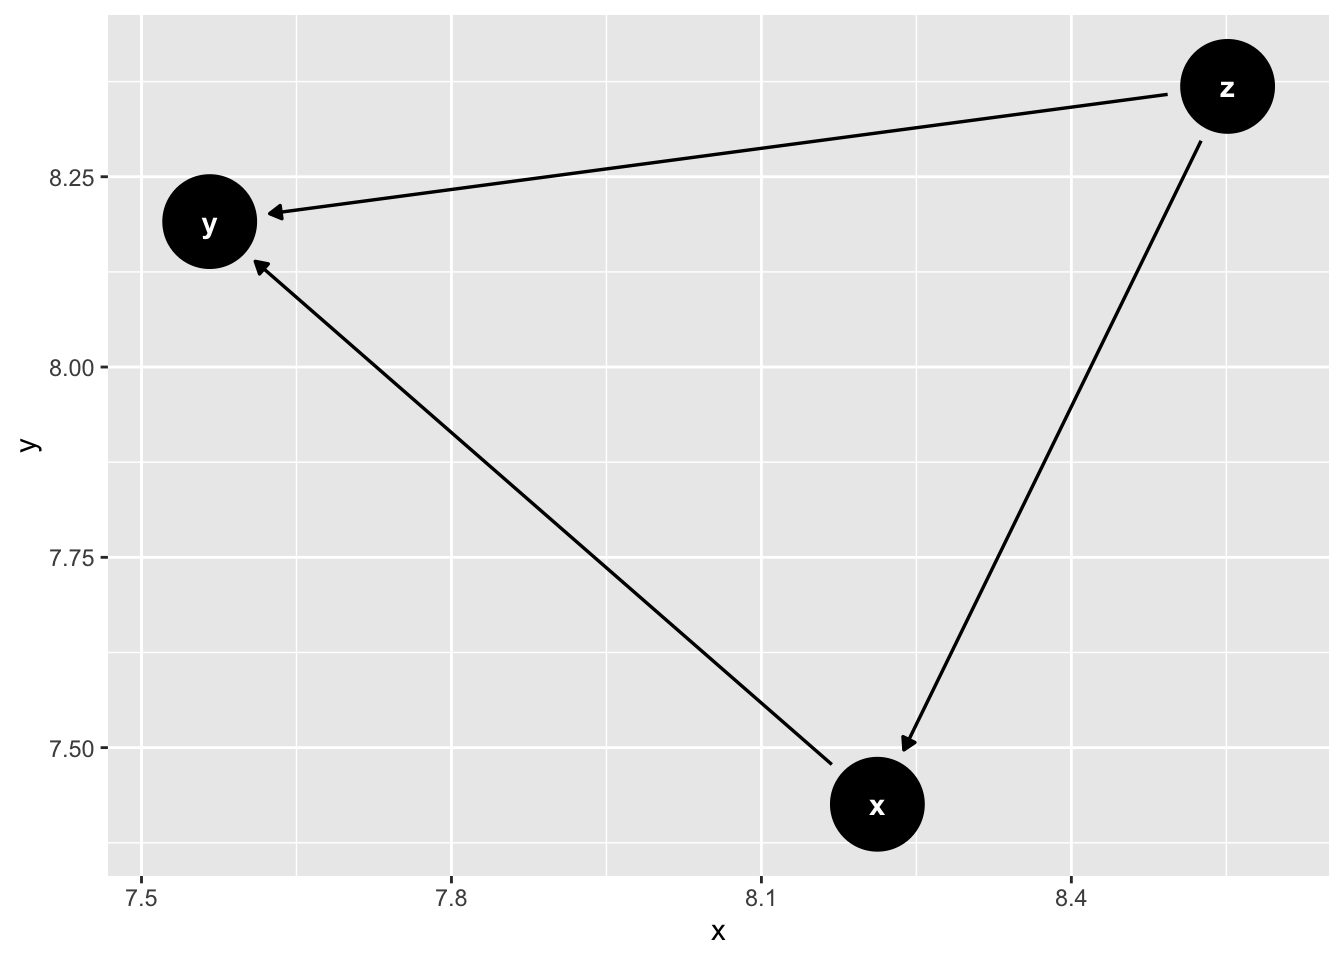
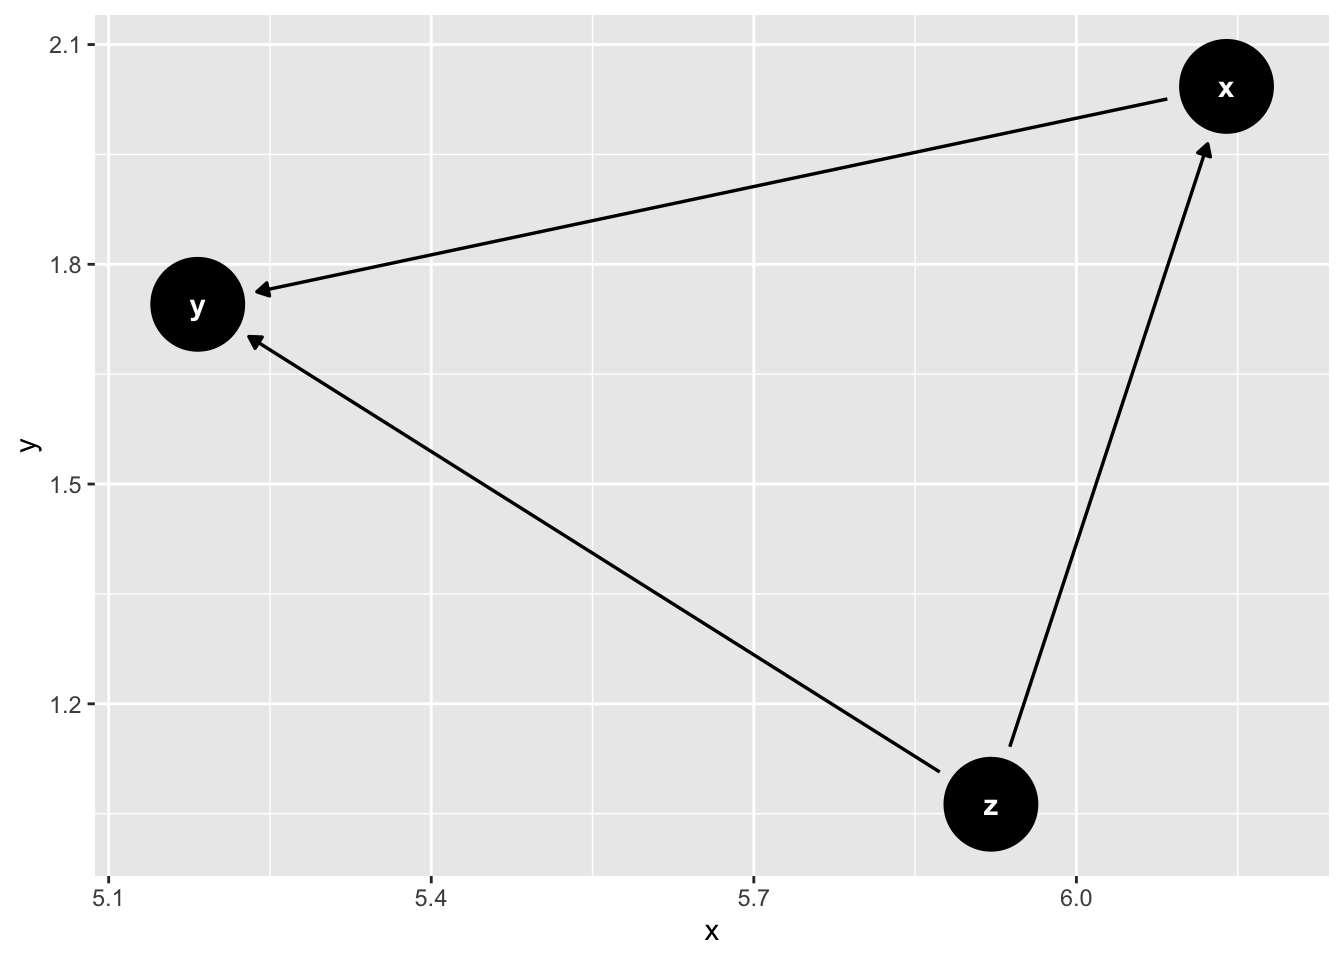
clean up blog list page

diff --git a/content/post/2018-01-26-stochastic-shakespeare-sonnets-produced-by-markov-chains-in-r/index.html b/content/post/2018-01-26-stochastic-shakespeare-sonnets-produced-by-markov-chains-in-r/index.html
@@ -13,9 +13,9 @@ authors: []
 lastmod: '2018-01-26'
 featured: no
 image:
-  caption: ''
+  caption: 'Photo by [Patrick Tomasso](https://unsplash.com/photos/Oaqk7qqNh_c)'
   focal_point: ''
-  preview_only: no
+  preview_only: yes
 projects: [] 
 ---
 
@@ -90,7 +90,7 @@ punctuation_probs &lt;- punctuation[punctuation %not_in% c(&quot;-&quot;, &quot;
 <pre class="r"><code>#  fit a Markov Chain
 sonnet_chain &lt;- markovchainFit(bills_words)
 cat(markovchainSequence(n = 10, markovchain = sonnet_chain$estimate), collapse =  &quot; &quot;)</code></pre>
-<p>i can afford no longer nurseth the joy my poverty</p>
+<p>with her audit by time whose shadow since i cannot</p>
 <p><img src="https://media.giphy.com/media/bXKWWJXUJkBsQ/giphy.gif" /></p>
 <p>And finally, here are a few functions to piece together lines to make them look like a sonnet using the <code>walk()</code> function from <code>purrr</code> to print out the lines (since it’s a side effect). No, they’re not actually iambic pentameter :(</p>
 <pre class="r"><code>write_a_line &lt;- function(n_lines = 1) {
@@ -270,92 +270,92 @@ markovify_sonnet &lt;- function() {
 <div id="markovify-sonnet-1" class="section level2">
 <h2>Markovify Sonnet 1:</h2>
 <pre class="r"><code>markovify_sonnet()</code></pre>
-<p>now counting best to be invited<br />
-then, in the breath of words respect,<br />
-are windows to my dear time’s waste:<br />
-speak of that which thou departest;</p>
-<p>speak of my faults thy sweet graces graced be;<br />
-reserve them for my sin you did impute,<br />
-then, beauteous niggard, why dost thou to mine eyes,<br />
-die to themselves. sweet roses do not kill</p>
-<p>this silence for my love, yea take them all;<br />
-are windows to my thoughts as food to life,<br />
-beauty’s effect with beauty of thy days.<br />
-there is but as the rich, whose blessed key,</p>
-<p>this were to be cross’d:<br />
-not from the book of honour razed quite.</p>
+<p>borne on the ashes of his spring;<br />
+then, beauteous niggard, why dost thou use<br />
+stealing away the treasure of his great verse,<br />
+for through the painter and hath stell’d,</p>
+<p>in thy glass and she with me,<br />
+who, in despite of space i would be forgot,<br />
+accuse me thus: that i in your decay<br />
+of him, i’ll live in doubt,</p>
+<p>mad in pursuit and in my heart.<br />
+grant, if thou survive my well-contented day,<br />
+stealing away the treasure of his living hue?<br />
+feeding on that which he toil’d:</p>
+<p>there lives more life in one of thine,<br />
+spending again what is most evident.</p>
 </div>
 <div id="markovify-sonnet-2" class="section level2">
 <h2>Markovify Sonnet 2:</h2>
 <pre class="r"><code>markovify_sonnet()</code></pre>
-<p>thine eyes i love, and look strange;<br />
-haply i think my love alone.<br />
-which should transport me farthest from your tongue;<br />
-entitled in thy power to lend base subjects light?</p>
-<p>wishing me like to the very same;<br />
-not that the world’s fresh ornament,<br />
-looking with pretty ruth upon my brow;<br />
-of faults conceal’d, wherein i am forsworn,</p>
-<p>too base of thee this i do change:<br />
-now all is done, save what is told.<br />
-to this composed wonder of your fame!<br />
-disdains the tillage of thy days.</p>
-<p>till i return, of posting is no remedy,<br />
-not wondering at the present nor the prophetic soul</p>
+<p>nor taste, nor smell, desire to be won,<br />
+unlearned in the least of them my life decay;<br />
+although thou steal thy sweet self too cruel:<br />
+say that thou none lov’st is most dear,</p>
+<p>too base of thee hast left behind,<br />
+will be true despite thy scythe and crooked knife.<br />
+these offices, so oft as mine,<br />
+may still seem love to thee,</p>
+<p>deserves the travail of a conquer’d woe;<br />
+although thou steal thy sweet self grow’st.<br />
+come in the distraction of this excess,<br />
+drawn after you, you pattern of all his growth</p>
+<p>be, as thy sweet will making addition thus.<br />
+is more than i have scanted all.</p>
 </div>
 <div id="markovify-sonnet-3" class="section level2">
 <h2>Markovify Sonnet 3:</h2>
 <pre class="r"><code>markovify_sonnet()</code></pre>
-<p>want nothing that the world an end,<br />
-kill me with that which it doth catch;<br />
-within the knowledge of mine own love’s might.<br />
-o! change thy thought, that i prove,</p>
-<p>within the level of your love.<br />
-presume not on thy humour doth depend:<br />
-ere you were once unkind befriends me now,<br />
-when sometime lofty towers i see thee,</p>
-<p>wishing me like to the world enjoys it;<br />
-who taught thee how thy precious minutes waste;<br />
-mad in pursuit of the time,<br />
-have added feathers to the time,</p>
-<p>the summer’s flower is to render thee.<br />
-what merit do i not to be invited</p>
+<p>poor soul, the centre of my lovers gone,<br />
+what hast thou this becoming of their faces,<br />
+who lead thee in their body’s force,<br />
+want nothing that the thought of hearts shouldst owe.</p>
+<p>eat up thy charge? is this thy golden time.<br />
+stealing away the treasure of thy lusty days;<br />
+unlearned in the praise thereof spends all his might,<br />
+poor soul, the centre of my heart;</p>
+<p>for you in me thou lov’st those<br />
+deserves the travail of a former child!<br />
+when as thy sweet self resemble,<br />
+the prey of worms, my body that he may</p>
+<p>hate of my lameness, and i are one;<br />
+mad in pursuit and in my verse</p>
 </div>
 <div id="markovify-sonnet-4" class="section level2">
 <h2>Markovify Sonnet 4:</h2>
 <pre class="r"><code>markovify_sonnet()</code></pre>
-<p>o, no! it is a man right fair,<br />
-by seeing farther than my barren rhyme?<br />
-even that your love taught it this alchemy,<br />
-theirs for their habitation chose out thee,</p>
-<p>just to the edge of doom.<br />
-full many a holy and obsequious tear<br />
-two loves i have frequent been with unknown minds,<br />
-how have mine eyes be blessed made</p>
-<p>speak of that which still doth grow?<br />
-kind is my love’s breath? the purple pride<br />
-him in thy steel bosom’s ward,<br />
-even so, being full of blame,</p>
-<p>speak of the dead, which now appear<br />
-will be true despite thy scythe and crooked knife.</p>
+<p>speak of the thing she would have stay;<br />
+within the level of your love.<br />
+oaths of thy love, though much, is not so?<br />
+nay, if thou thy sins are;</p>
+<p>looking on thee in such sort,<br />
+still losing when i took my way,<br />
+kind is my love, you know,<br />
+beshrew that heart that makes my heart to sway?</p>
+<p>thus have i slept in your decay<br />
+hers by thy picture in my purpose bred,<br />
+both find each other, and i desperate now approve<br />
+love’s eye is my invention spent,</p>
+<p>some fresher stamp of the dead, which now appear<br />
+who all their praises are but prophecies</p>
 </div>
 <div id="markovify-sonnet-5" class="section level2">
 <h2>Markovify Sonnet 5:</h2>
 <pre class="r"><code>markovify_sonnet()</code></pre>
-<p>never believe though in thy creation did decree<br />
-make but my five senses can<br />
-but all alone beweep my outcast state,<br />
-alack! what poverty my muse want subject to invent,</p>
-<p>but wherefore do not do the thing they see;<br />
-lo! in the number let me be borne alone.<br />
-steal from his low tract, and look strange;<br />
-so, either by thy beauty being mute,</p>
-<p>betwixt mine eye loves it and doth first begin.<br />
-whence hast thou this becoming of their excellence.<br />
-dost thou to mine own worth do define,<br />
-wretched in this line some interest,</p>
-<p>yet, do thy worst to steal thyself away,<br />
-although thou steal thy sweet self prove.</p>
+<p>but that which governs me to thee resort.<br />
+or whether shall i live, supposing thou art old,<br />
+advantage on the rarities of nature’s truth,<br />
+hast thou, the master mistress of my harmful deeds,</p>
+<p>thou best of dearest, and mine eye awake:<br />
+although thou steal thee all thy glory live.<br />
+ah! yet doth beauty like a makeless wife;<br />
+nay, if you were once unkind befriends me now,</p>
+<p>whereto all bonds do tie me day by day,<br />
+are vanishing, or vanished out of their faces,<br />
+presume not on thy soft cheek for complexion dwells<br />
+if thou dost seek to have years told:</p>
+<p>although i swear it to myself i do,<br />
+lo! in the world’s fresh ornament.</p>
 <p><img src="https://media.giphy.com/media/JPW7lVDXKJgXu/giphy.gif" width="75%" /></p>
 <p>Well, call me Shockedspeare.</p>
 <p><em>Exit, pursued by a bear</em></p>

diff --git a/content/post/2019-09-17-tidy-causal-dags-with-ggdag-0-2-0/index.html b/content/post/2019-09-17-tidy-causal-dags-with-ggdag-0-2-0/index.html
@@ -18,7 +18,7 @@ featured: no
 image:
   caption: ''
   focal_point: ''
-  preview_only: no
+  preview_only: yes
 projects: 
   - ggdag
   - methods
@@ -52,12 +52,12 @@ smoking_ca_dag</code></pre>
 ## # A tibble: 6 x 9
 ##   name          x     y direction to        xend  yend circular label      
 ##   &lt;chr&gt;     &lt;dbl&gt; &lt;dbl&gt; &lt;fct&gt;     &lt;chr&gt;    &lt;dbl&gt; &lt;dbl&gt; &lt;lgl&gt;    &lt;chr&gt;      
-## 1 choleste…  13.2  11.8 -&gt;        cardiac…  12.0  11.2 FALSE    Cholesterol
-## 2 smoking    14.5  11.7 -&gt;        cholest…  13.2  11.8 FALSE    Smoking    
-## 3 unhealthy  15.0  12.8 -&gt;        smoking   14.5  11.7 FALSE    &quot;Unhealthy…
-## 4 unhealthy  15.0  12.8 -&gt;        weight    13.8  13.0 FALSE    &quot;Unhealthy…
-## 5 weight     13.8  13.0 -&gt;        cholest…  13.2  11.8 FALSE    Weight     
-## 6 cardiaca…  12.0  11.2 &lt;NA&gt;      &lt;NA&gt;      NA    NA   FALSE    &quot;Cardiac\n…</code></pre>
+## 1 choleste…  26.0  18.3 -&gt;        cardiac…  27.2  17.8 FALSE    Cholesterol
+## 2 smoking    24.7  18.1 -&gt;        cholest…  26.0  18.3 FALSE    Smoking    
+## 3 unhealthy  24.2  19.1 -&gt;        smoking   24.7  18.1 FALSE    &quot;Unhealthy…
+## 4 unhealthy  24.2  19.1 -&gt;        weight    25.3  19.4 FALSE    &quot;Unhealthy…
+## 5 weight     25.3  19.4 -&gt;        cholest…  26.0  18.3 FALSE    Weight     
+## 6 cardiaca…  27.2  17.8 &lt;NA&gt;      &lt;NA&gt;      NA    NA   FALSE    &quot;Cardiac\n…</code></pre>
 <p>The tidy DAG structure looks like a <code>tibble</code>. ggdag 0.2.0 also prints some information about the DAG at the top.</p>
 <pre class="r"><code>ggdag(smoking_ca_dag, text = FALSE, use_labels = &quot;label&quot;)</code></pre>
 <p><img src="/post/2019-09-17-tidy-causal-dags-with-ggdag-0-2-0/index_files/figure-html/unnamed-chunk-4-1.png" width="672" /></p>
@@ -100,9 +100,9 @@ tblgraph_dag</code></pre>
 ## # Edge Data: 5 x 9
 ##    from    to     x     y direction  xend  yend circular label             
 ##   &lt;int&gt; &lt;int&gt; &lt;dbl&gt; &lt;dbl&gt; &lt;chr&gt;     &lt;dbl&gt; &lt;dbl&gt; &lt;lgl&gt;    &lt;chr&gt;             
-## 1     1     5  13.2  11.8 -&gt;         12.0  11.2 FALSE    Cholesterol       
-## 2     2     1  14.5  11.7 -&gt;         13.2  11.8 FALSE    Smoking           
-## 3     3     2  15.0  12.8 -&gt;         14.5  11.7 FALSE    &quot;Unhealthy\n Life…
+## 1     1     5  26.0  18.3 -&gt;         27.2  17.8 FALSE    Cholesterol       
+## 2     2     1  24.7  18.1 -&gt;         26.0  18.3 FALSE    Smoking           
+## 3     3     2  24.2  19.1 -&gt;         24.7  18.1 FALSE    &quot;Unhealthy\n Life…
 ## # … with 2 more rows</code></pre>
 <pre class="r"><code>tblgraph_dag %&gt;% 
   ggraph() +

diff --git a/content/post/2018-03-28-ggdag-0-1-0/index.html b/content/post/2018-03-28-ggdag-0-1-0/index.html
@@ -15,9 +15,9 @@ authors: []
 lastmod: '2018-03-28'
 featured: no
 image:
-  caption: ''
+  caption: 'Photo by [Sam Carter](https://unsplash.com/photos/GHOiyov2TSQ)'
   focal_point: ''
-  preview_only: no
+  preview_only: yes
 projects: 
   - ggdag
 ---
@@ -38,10 +38,10 @@ dag</code></pre>
 ## # A tibble: 4 x 8
 ##   name      x     y direction to     xend  yend circular
 ##   &lt;chr&gt; &lt;dbl&gt; &lt;dbl&gt; &lt;fct&gt;     &lt;chr&gt; &lt;dbl&gt; &lt;dbl&gt; &lt;lgl&gt;   
-## 1 x      8.21  7.43 -&gt;        y      7.57  8.19 FALSE   
-## 2 z      8.55  8.37 -&gt;        x      8.21  7.43 FALSE   
-## 3 z      8.55  8.37 -&gt;        y      7.57  8.19 FALSE   
-## 4 y      7.57  8.19 &lt;NA&gt;      &lt;NA&gt;  NA    NA    FALSE</code></pre>
+## 1 x      6.14  2.04 -&gt;        y      5.18  1.75 FALSE   
+## 2 z      5.92  1.06 -&gt;        x      6.14  2.04 FALSE   
+## 3 z      5.92  1.06 -&gt;        y      5.18  1.75 FALSE   
+## 4 y      5.18  1.75 &lt;NA&gt;      &lt;NA&gt;  NA    NA    FALSE</code></pre>
 <pre class="r"><code>ggdag(dag)</code></pre>
 <p><img src="/post/2018-03-28-ggdag-0-1-0/index_files/figure-html/unnamed-chunk-1-1.png" width="672" /></p>
 <p>You can learn more about it on the <a href="https://ggdag.netlify.com/">ggdag website</a>, a <code>pkgdown</code> site that includes rendered documentation and the following vignettes:</p>

diff --git a/content/post/2019-10-06-introducing-ymlthis/index.html b/content/post/2019-10-06-introducing-ymlthis/index.html
@@ -12,9 +12,9 @@ slug: introducing-ymlthis
 lastmod: '2019-10-06'
 featured: no
 image:
-  caption: ''
+  caption: 'Image by [Desirée De Leon](https://desiree.rbind.io)'
   focal_point: ''
-  preview_only: no
+  preview_only: yes
 draft: true
 projects: ['ymlthis']
 ---
@@ -61,7 +61,7 @@ csl: aje.csl
 <h1>Write R Markdown and YAML files</h1>
 <p>ymlthis prints cleanly to the console, so you can easily copy and paste it into your R Markdown document (or use <code>use_yml()</code> to programatically place it on your clipboard). However, this might not fit the needs of your workflow. <code>use_rmarkdown()</code> and friends take <code>yml</code> objects and write them to R Markdown files.</p>
 <pre class="r"><code>use_rmarkdown(path = &quot;myreport.Rmd&quot;)</code></pre>
-<pre><code>## ✔ Writing &#39;/var/folders/03/9x7925g54mncswxx06wpkxl00000gn/T/RtmpxcnG79/file14d81679af35/myreport.Rmd&#39;</code></pre>
+<pre><code>## ✔ Writing &#39;/var/folders/03/9x7925g54mncswxx06wpkxl00000gn/T/Rtmpcs1Ykd/file143cd244afbec/myreport.Rmd&#39;</code></pre>
 <p>Read the <a href="http://ymlthis.r-lib.org/articles/introduction-to-ymlthis.html">vignette introducing ymlthis</a> for more on working with R Markdown and YAML files, as well as for using ymlthis to create R Markdown templates.</p>
 </div>
 <div id="learn-more-about-yaml-and-yaml-options" class="section level1">

diff --git a/content/post/2019-05-20-introducing-the-partition-package/index.html b/content/post/2019-05-20-introducing-the-partition-package/index.html
@@ -13,9 +13,9 @@ authors: []
 lastmod: '2019-05-20'
 featured: no
 image:
-  caption: ''
+  caption: 'Photo by [Braden Collum](https://unsplash.com/photos/LDh4LAV2Duc)'
   focal_point: ''
-  preview_only: no
+  preview_only: yes
 projects: [partition]
 ---
 

diff --git a/content/post/2018-08-04-when-interaction-is-not-interaction-confounding-and-measurement-error/index.html b/content/post/2018-08-04-when-interaction-is-not-interaction-confounding-and-measurement-error/index.html
@@ -14,9 +14,9 @@ authors: []
 lastmod: '2018-08-04'
 featured: no
 image:
-  caption: ''
+  caption: 'Photo by [Toa Heftiba](https://unsplash.com/photos/oQvESMKUkzM)'
   focal_point: ''
-  preview_only: no
+  preview_only: yes
 projects: []
 ---
 

diff --git a/content/post/2018-11-05-why-should-i-use-the-here-package-when-i-m-already-using-projects/index.html b/content/post/2018-11-05-why-should-i-use-the-here-package-when-i-m-already-using-projects/index.html
@@ -14,9 +14,9 @@ authors: []
 lastmod: '2019-10-06'
 featured: no
 image:
-  caption: ''
+  caption: 'Photo by [John Baker](https://unsplash.com/photos/3To9V42K0Ag)'
   focal_point: ''
-  preview_only: no
+  preview_only: yes
 projects: []
 ---
 

diff --git a/content/post/2019-06-23-ser2019-in-review/index.html b/content/post/2019-06-23-ser2019-in-review/index.html
@@ -16,7 +16,7 @@ featured: no
 image:
   caption: ''
   focal_point: ''
-  preview_only: no
+  preview_only: yes
 projects: []
 ---
 
